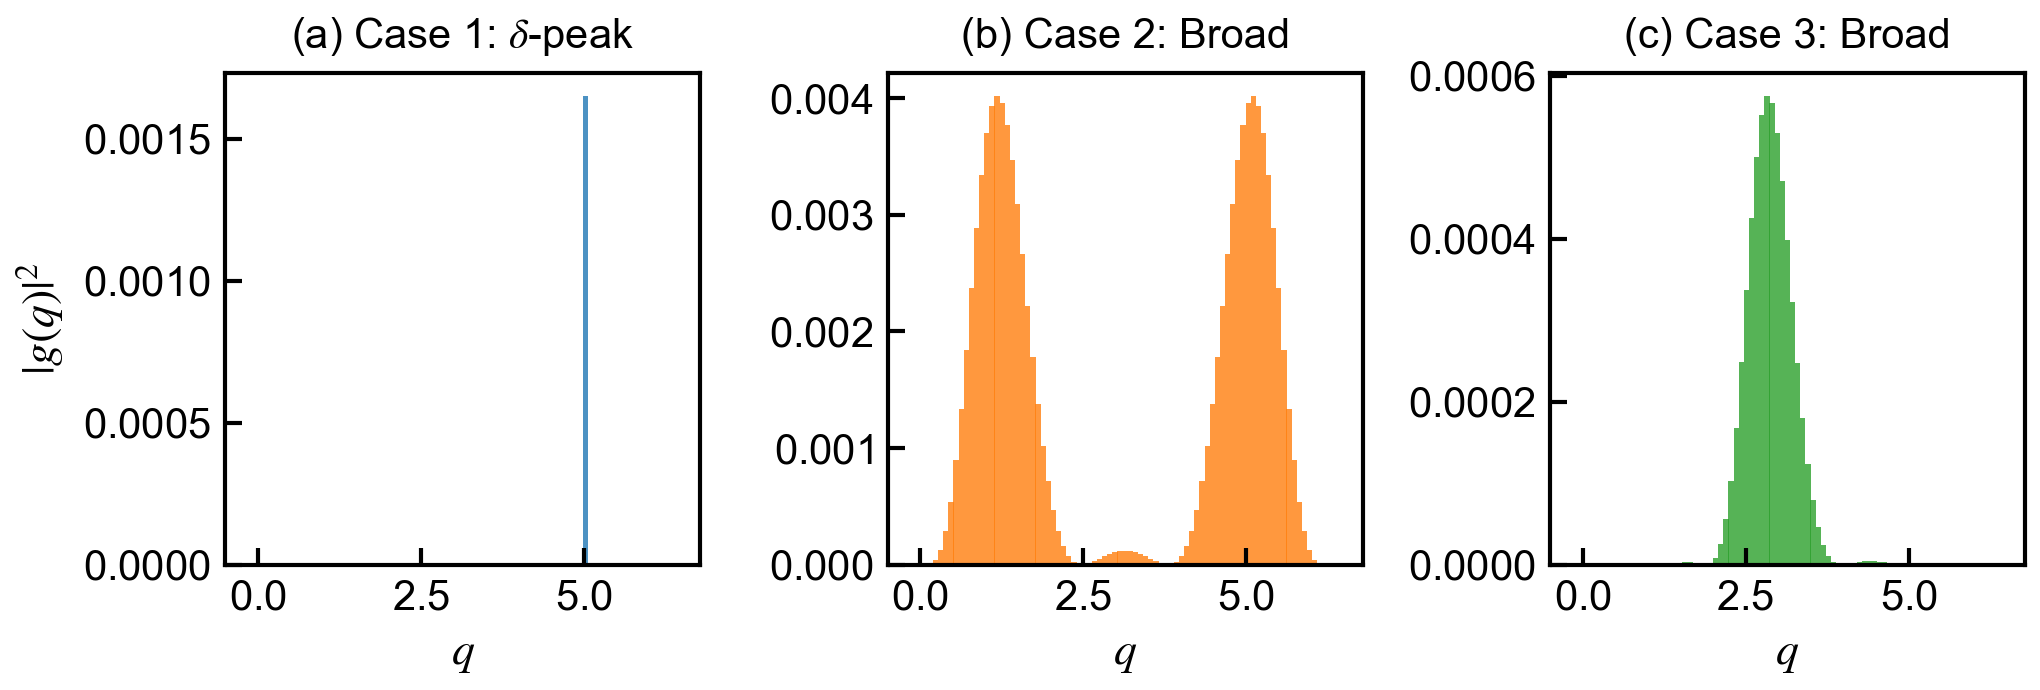
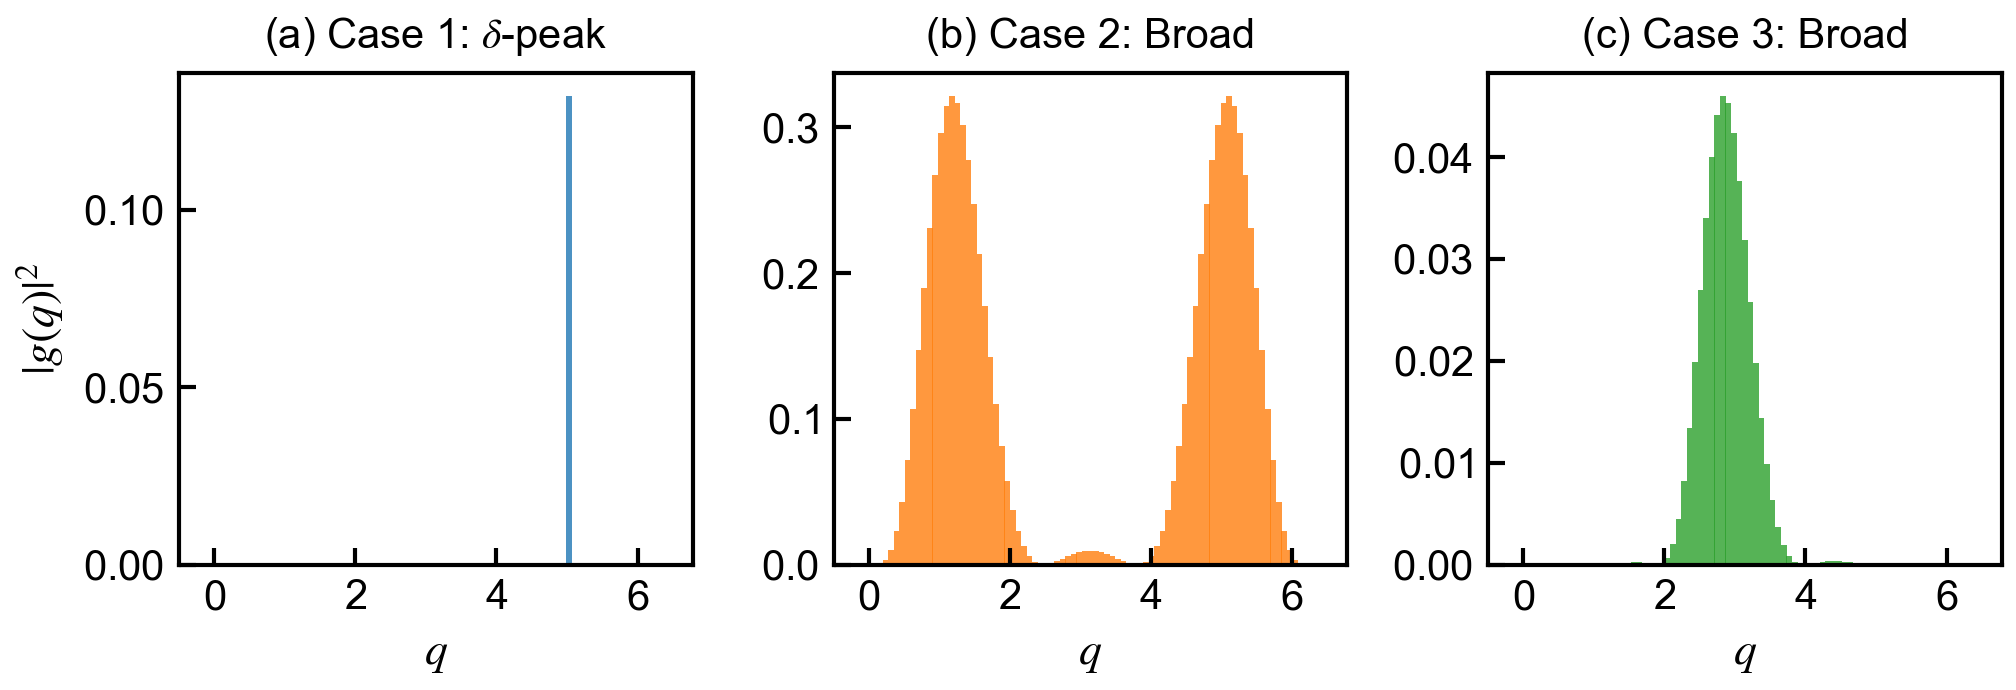
refactor: align g normalization with discussion summary convention
- Remove 1/sqrt(N) from electron-phonon coupling g in dh_dq_* functions
- Add explicit 1/N factor in mean_square_nac via n_cells parameter
- Update numerical verification to account for displacement normalization
- Fix fig7 y-axis scale to show constant |g(q0)|^2 correctly
- Regenerate all publication figures with new convention

diff --git a/scripts/generate_publication_figures.py b/scripts/generate_publication_figures.py
@@ -608,9 +608,13 @@ def generate_figure7_diagnostics(output_dir: Path):
     axes[0, 0].set_xscale('log')
 
     axes[0, 1].loglog(n_vals, gq0_case1, 'o-', c=COLORS['case1'])
-    # 理论线
-    A = gq0_case1[0] * n_vals[0]
-    axes[0, 1].plot(n_vals, A / np.array(n_vals), ':', c=COLORS['theory'], label=r'$\propto N^{-1}$')
+    # 理论线：当前 g 定义不含 1/sqrt(N)，因此 |g(q0)|^2 ~ 常数
+    axes[0, 1].plot(n_vals, np.full_like(n_vals, gq0_case1[0], dtype=float), ':', c=COLORS['theory'], label=r'$\propto N^{0}$')
+    # 当数据在机器精度内近似常数时，log-log 的自动缩放可能会把 1e-16 量级的浮点噪声“放大”为可见锯齿；
+    # 这里固定一个合理的 y 轴范围，避免误导读者。
+    y0 = float(np.mean(gq0_case1))
+    if y0 > 0:
+        axes[0, 1].set_ylim(y0 * 0.5, y0 * 2.0)
     axes[0, 1].set_xlabel('$N$')
     axes[0, 1].set_ylabel(r'$|g(q_0)|^2$')
     axes[0, 1].set_title('(b) Single-mode coupling', fontsize=10)
@@ -659,8 +663,11 @@ def generate_figure7_diagnostics(output_dir: Path):
     axes[1, 0].set_xscale('log')
 
     axes[1, 1].loglog(n_vals, gq0_ssh, 'o-', c=COLORS['case2'])
-    A_ssh = gq0_ssh[0] * n_vals[0]
-    axes[1, 1].plot(n_vals, A_ssh / np.array(n_vals), ':', c=COLORS['theory'], label=r'$\propto N^{-1}$')
+    # 理论线：当前 g 定义不含 1/sqrt(N)，因此 |g(q=0)|^2 ~ 常数
+    axes[1, 1].plot(n_vals, np.full_like(n_vals, gq0_ssh[0], dtype=float), ':', c=COLORS['theory'], label=r'$\propto N^{0}$')
+    y0 = float(np.mean(gq0_ssh))
+    if y0 > 0:
+        axes[1, 1].set_ylim(y0 * 0.5, y0 * 2.0)
     axes[1, 1].set_xlabel('$N$')
     axes[1, 1].set_ylabel(r'$|g(q=0)|^2$')
     axes[1, 1].set_title('(e) SSH single-mode coupling', fontsize=10)

diff --git a/src/experiments_simple.py b/src/experiments_simple.py
@@ -69,7 +69,7 @@ def case1_scaling(
         omega_q0 = dispersion_monatomic(np.array([q0]), k_spring, mass)[0]
         qdot_var = qdot_variance(np.array([omega_q0]), temperature, mode=mode)
         delta_e = dispersion(k2, t0, a=a) - dispersion(k1, t0, a=a)
-        d2 = mean_square_nac(np.array([g_q0]), delta_e, qdot_var)
+        d2 = mean_square_nac(np.array([g_q0]), delta_e, qdot_var, n_cells=n_cells)
 
         d2_vals.append(d2)
         delta_e_vals.append(delta_e)
@@ -153,7 +153,7 @@ def case2_scaling(
         g_vals = g_monatomic_grid(psi_i, psi_j, n_cells, q_vals, alpha, a=a, mass=mass)
         omegas = dispersion_monatomic(q_vals, k_spring, mass)
         qdot_var = qdot_variance(omegas, temperature, mode=mode)
-        d2 = mean_square_nac(g_vals, delta_e, qdot_var)
+        d2 = mean_square_nac(g_vals, delta_e, qdot_var, n_cells=n_cells)
 
         d2_vals.append(d2)
         delta_e_vals.append(delta_e)
@@ -201,7 +201,7 @@ def case3_scaling(
         g_vals = g_monatomic_grid(psi_i, psi_j, n_cells, q_vals, alpha, a=a, mass=mass)
         omegas = dispersion_monatomic(q_vals, k_spring, mass)
         qdot_var = qdot_variance(omegas, temperature, mode=mode)
-        d2 = mean_square_nac(g_vals, delta_e, qdot_var)
+        d2 = mean_square_nac(g_vals, delta_e, qdot_var, n_cells=n_cells)
 
         d2_vals.append(d2)
         delta_e_vals.append(delta_e)

diff --git a/src/electron_phonon.py b/src/electron_phonon.py
@@ -17,9 +17,13 @@ def dh_dq_monatomic(
     mass: float = 1.0,
     pbc: bool = True,
 ) -> np.ndarray:
-    """构造单原子链 SSH 型耦合的 dH/dQ_q。"""
+    """构造单原子链 SSH 型耦合的 dH/dQ_q。
+
+    约定：这里的 Q_q 不包含超胞归一化因子 1/sqrt(n_cells)，该因子在最终
+    ⟨|d|^2⟩ 中以 1/n_cells 显式出现（与讨论总结口径一致）。
+    """
     dh = np.zeros((n_cells, n_cells), dtype=complex)
-    prefactor = alpha / np.sqrt(n_cells * mass)
+    prefactor = alpha / np.sqrt(mass)
 
     for n in range(n_cells):
         n_next = n + 1
@@ -95,11 +99,15 @@ def dh_dq_ssh_diatomic(
     beta: float = 0.0,
     pbc: bool = True,
 ) -> np.ndarray:
-    """构造 SSH 两带模型的 dH/dQ_{q,nu}（双原子链）。"""
+    """构造 SSH 两带模型的 dH/dQ_{q,nu}（双原子链）。
+
+    约定：这里的 Q_{q,nu} 不包含超胞归一化因子 1/sqrt(n_cells)，该因子在最终
+    ⟨|d|^2⟩ 中以 1/n_cells 显式出现（与讨论总结口径一致）。
+    """
     size = 2 * n_cells
     dh = np.zeros((size, size), dtype=complex)
-    prefactor_a = 1.0 / np.sqrt(n_cells * mass_a)
-    prefactor_b = 1.0 / np.sqrt(n_cells * mass_b)
+    prefactor_a = 1.0 / np.sqrt(mass_a)
+    prefactor_b = 1.0 / np.sqrt(mass_b)
 
     for n in range(n_cells):
         a_idx = 2 * n

diff --git a/src/experiments_numerical_check.py b/src/experiments_numerical_check.py
@@ -91,7 +91,8 @@ def compare_analytical_numerical(
         g_minus = g_monatomic(psi_i_ref, psi_j_ref, n_cells, -q0, alpha, a=a, mass=mass)
         g_analytical = (g_plus + g_minus) / np.sqrt(2.0)
         delta_e = dispersion(k2, t0, a=a) - dispersion(k1, t0, a=a)
-        nac_analytical = g_analytical / delta_e
+        # 注意：当前代码口径下 g 不含 1/sqrt(N)，与数值有限差分（对 Q 的导数）对齐时需除以 sqrt(N)
+        nac_analytical = g_analytical / (delta_e * np.sqrt(n_cells))
 
         q_vals = np.array([q0, -q0], dtype=float)
         q_amp = np.array([1.0 / np.sqrt(2.0), 1.0 / np.sqrt(2.0)], dtype=complex)
@@ -142,7 +143,8 @@ def compare_analytical_numerical(
             mass_a=mass_a,
             mass_b=mass_b,
         )
-        nac_analytical = g_analytical / delta_e
+        # 注意：当前代码口径下 g 不含 1/sqrt(N)，与数值有限差分（对 Q 的导数）对齐时需除以 sqrt(N)
+        nac_analytical = g_analytical / (delta_e * np.sqrt(n_cells))
 
         q_vals = np.array([0.0], dtype=float)
         q_amp = np.zeros((1, 2), dtype=complex)

diff --git a/src/experiments_ssh.py b/src/experiments_ssh.py
@@ -89,7 +89,7 @@ def case1_scaling(
             mass_b=mass_b,
         )
         qdot_var = qdot_variance(np.array([omega_q[mode_idx]]), temperature, mode=mode)
-        d2 = mean_square_nac(np.array([g_val]), delta_e, qdot_var)
+        d2 = mean_square_nac(np.array([g_val]), delta_e, qdot_var, n_cells=n_cells)
 
         d2_vals.append(d2)
         delta_e_vals.append(delta_e)
@@ -192,7 +192,7 @@ def case2_scaling(
             mass_b=mass_b,
         )
         qdot_var = qdot_variance(omegas, temperature, mode=mode)
-        d2 = mean_square_nac(g_vals, delta_e, qdot_var)
+        d2 = mean_square_nac(g_vals, delta_e, qdot_var, n_cells=n_cells)
 
         d2_vals.append(d2)
         delta_e_vals.append(delta_e)
@@ -257,7 +257,7 @@ def case3_scaling(
             mass_b=mass_b,
         )
         qdot_var = qdot_variance(omegas, temperature, mode=mode)
-        d2 = mean_square_nac(g_vals, delta_e, qdot_var)
+        d2 = mean_square_nac(g_vals, delta_e, qdot_var, n_cells=n_cells)
 
         d2_vals.append(d2)
         delta_e_vals.append(delta_e)

diff --git a/scripts/debug_ssh_issues.py b/scripts/debug_ssh_issues.py
@@ -130,7 +130,7 @@ def diagnose_case2():
         from src.nac import mean_square_nac, qdot_variance
         delta_e = float(evals[idx2] - evals[idx1])
         qdot_var = qdot_variance(omegas, temperature=300.0, mode="classical")
-        d2 = mean_square_nac(g_vals, delta_e, qdot_var)
+        d2 = mean_square_nac(g_vals, delta_e, qdot_var, n_cells=n_cells)
 
         print(f"  delta_E = {delta_e:.6f}")
         print(f"  <d^2> = {d2:.6e}")
@@ -248,7 +248,7 @@ def diagnose_simple_case2():
         omegas = np.array([dispersion_monatomic(q, k_spring=1.0, mass=mass) for q in q_vals])
         delta_e = float(evals[idx2] - evals[idx1])
         qdot_var = qdot_variance(omegas, temperature=300.0, mode="classical")
-        d2 = mean_square_nac(g_vals[:, np.newaxis], delta_e, qdot_var[:, np.newaxis])
+        d2 = mean_square_nac(g_vals[:, np.newaxis], delta_e, qdot_var[:, np.newaxis], n_cells=n_cells)
 
         print(f"  <d^2> = {d2:.6e}")
 

diff --git a/src/nac.py b/src/nac.py
@@ -30,9 +30,17 @@ def mean_square_nac(
     g_qnu: np.ndarray,
     delta_e: float,
     qdot_var: np.ndarray,
+    n_cells: int,
 ) -> float:
-    """计算 ⟨|d_ij|^2⟩。"""
+    """计算 ⟨|d_ij|^2⟩。
+
+    公式：⟨|d|^2⟩ = (1/(N ΔE^2)) * Σ_{q,ν} |g_{ij,ν}(q)|^2 ⟨|Q̇_{q,ν}|^2⟩
+
+    注意：这里的 g 定义不包含超胞归一化因子 1/sqrt(N)，该因子在上式中以 1/N 显式出现。
+    """
+    if n_cells <= 0:
+        raise ValueError("n_cells 必须为正整数")
     if g_qnu.shape != qdot_var.shape:
         raise ValueError("g_qnu 与 qdot_var 形状必须一致")
     denom = float(delta_e) ** 2
-    return float(np.sum(np.abs(g_qnu) ** 2 * qdot_var) / denom)
+    return float(np.sum(np.abs(g_qnu) ** 2 * qdot_var) / (float(n_cells) * denom))

diff --git a/README.md b/README.md
@@ -79,9 +79,9 @@ python scripts/verify_numerical_nac.py
 ### 单带紧束缚模型
 
 哈密顿量：
-$$H = -t_0 \sum_n (c_n^\dagger c_{n+1} + \text{h.c.})$$
+$$H = t_0 \sum_n (c_n^\dagger c_{n+1} + \text{h.c.})$$
 
-色散关系：$E(k) = -2t_0 \cos(ka)$
+色散关系：$E(k) = 2t_0 \cos(ka)$
 
 ### SSH 双带模型
 
@@ -91,7 +91,8 @@ $$H = -t_0 \sum_n (c_n^\dagger c_{n+1} + \text{h.c.})$$
 
 ### NAC 标度律
 
-$$\langle d^2 \rangle = \frac{1}{(\Delta E)^2} \sum_q |g(q)|^2 \langle \dot{Q}_q^2 \rangle$$
+本仓库约定的电声耦合 $g_{ij,\nu}(q)=\langle i|\partial H/\partial Q_{q\nu}|j\rangle$ 不包含超胞归一化因子 $1/\sqrt{N}$，因此
+$$\langle |d|^2 \rangle = \frac{1}{N(\Delta E)^2} \sum_{q,\nu} |g_{ij,\nu}(q)|^2 \langle |\dot{Q}_{q\nu}|^2 \rangle$$
 
 - **Case 1 (Ext-Ext)**：动量守恒 → δ 峰 → $\langle d^2 \rangle \propto N^{-1}$
 - **Case 2 (Loc-Loc)**：局域扰动 → $\langle d^2 \rangle \propto N^0$
